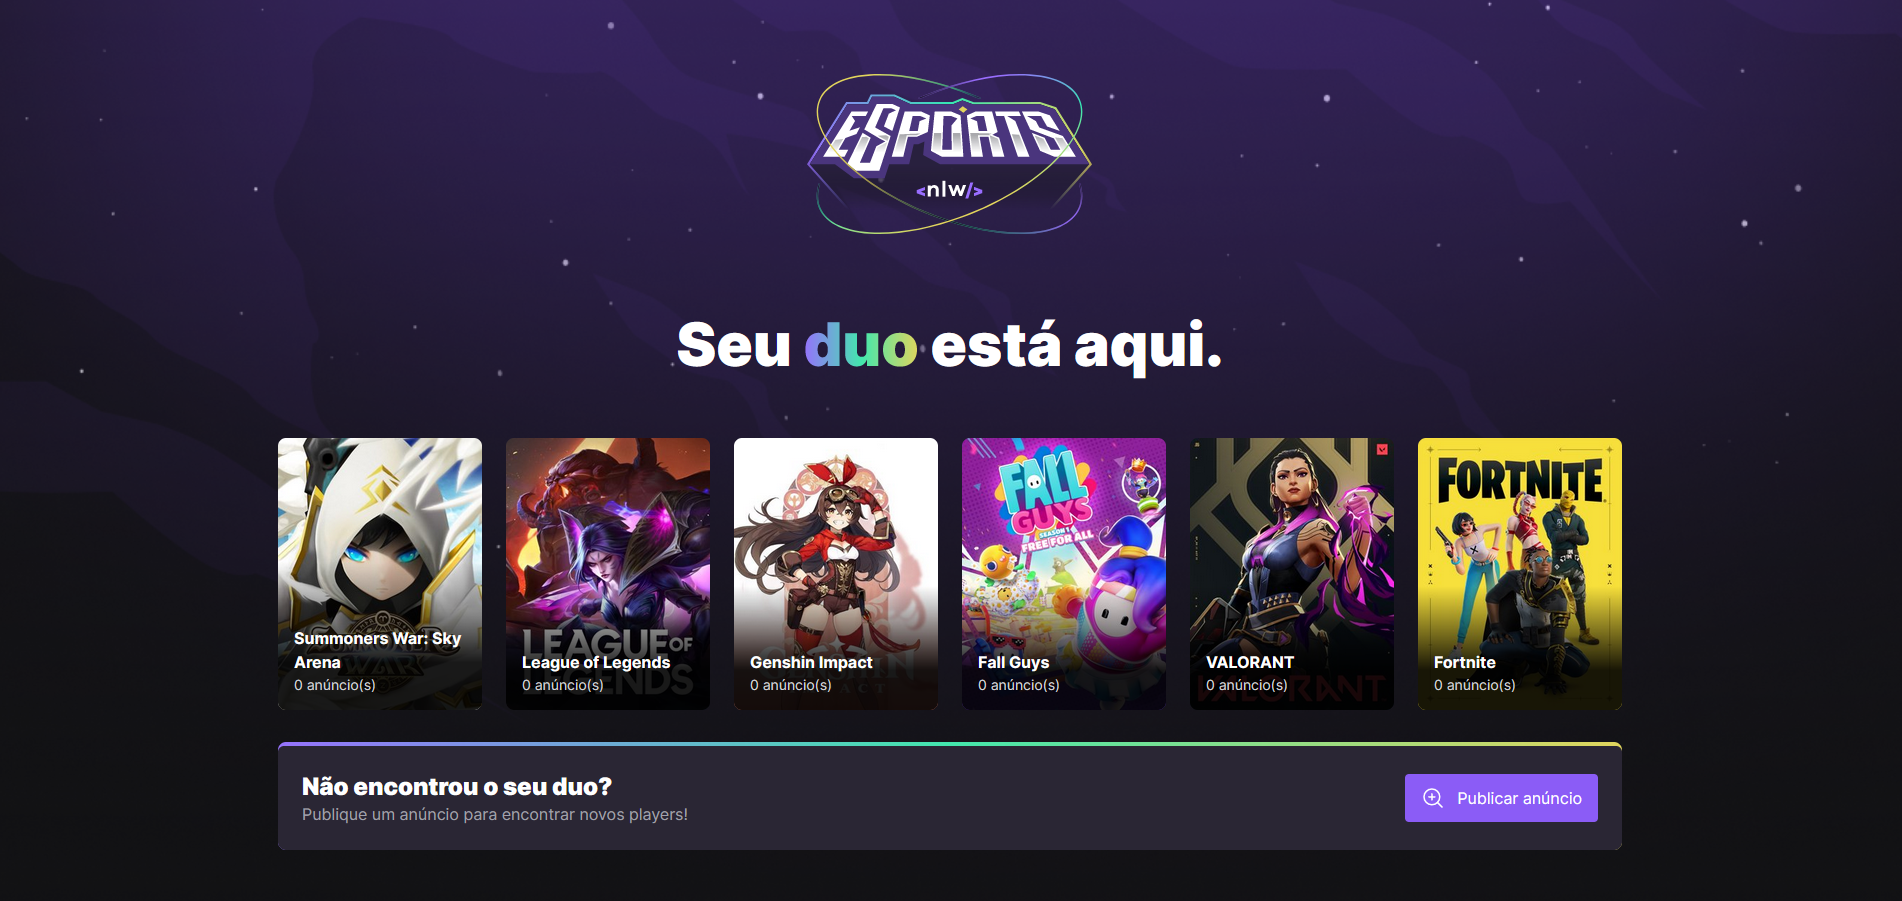
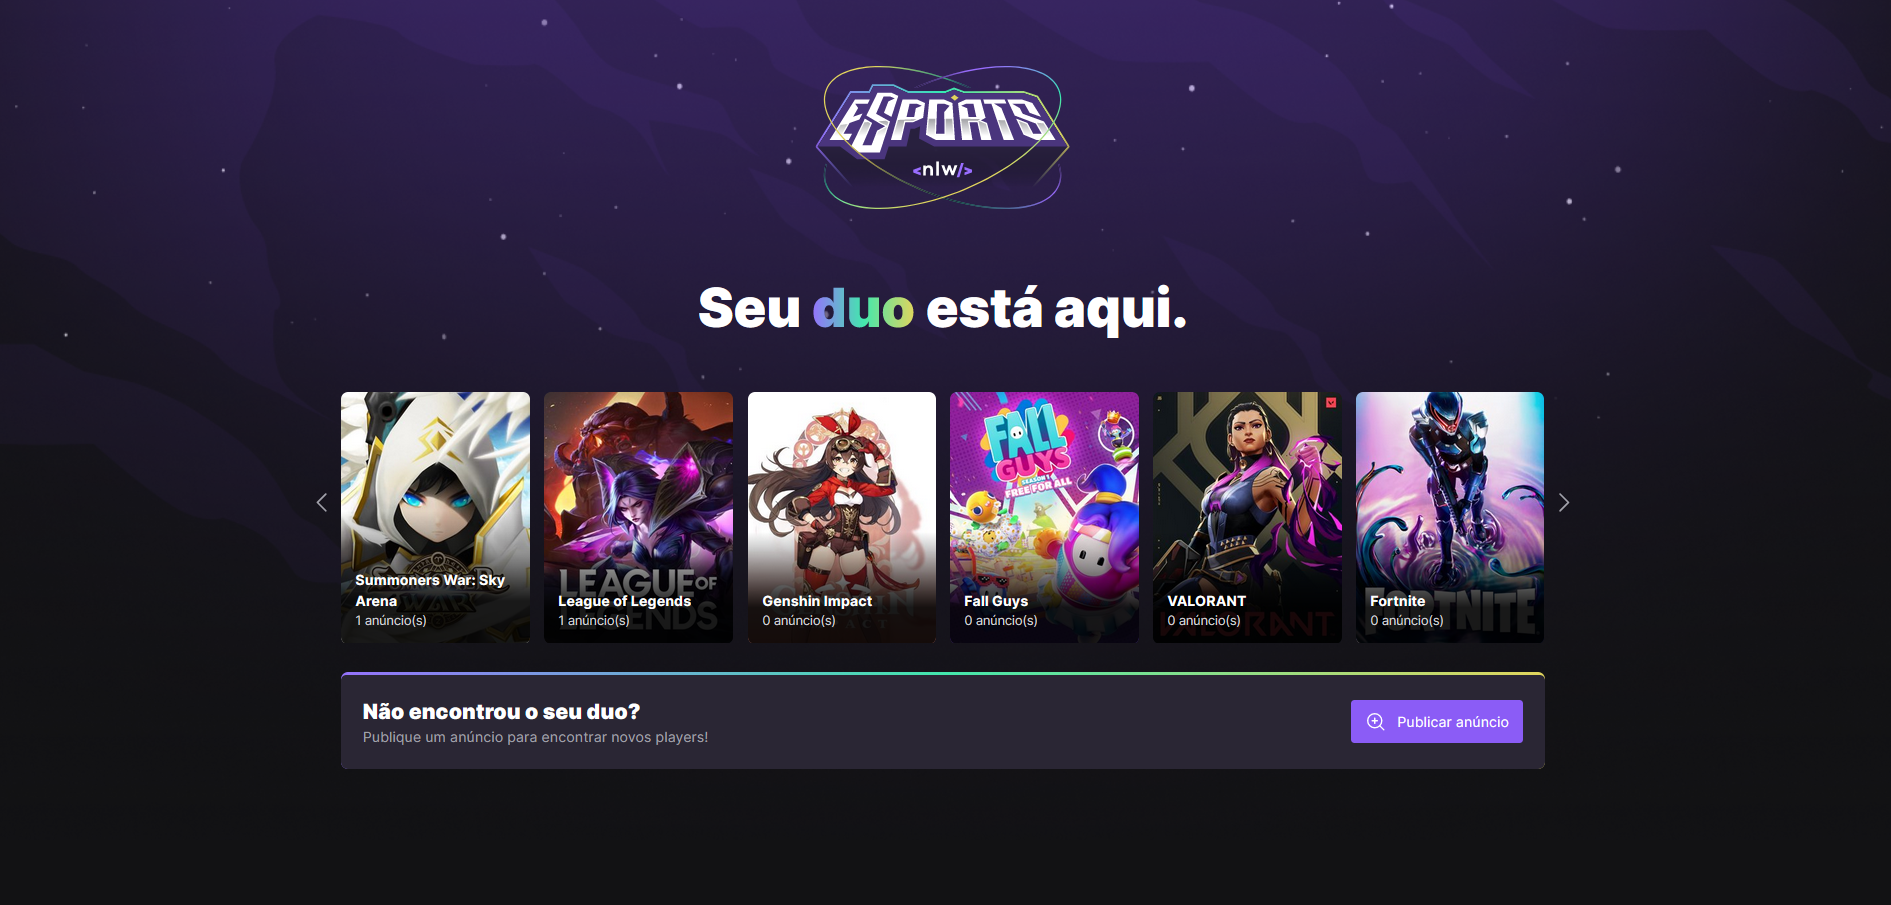
docs: updated README.md

diff --git a/README.md b/README.md
@@ -22,6 +22,8 @@ Node Version: >=16.17.0.
 
 - https://www.figma.com/community/file/1150897317533332617
 
-## Print
+## Prints
 
 ![NLW Web](/Img/NLW.png)
+
+![NLW Web with Success Toast](/Img/NLW_2.png)
